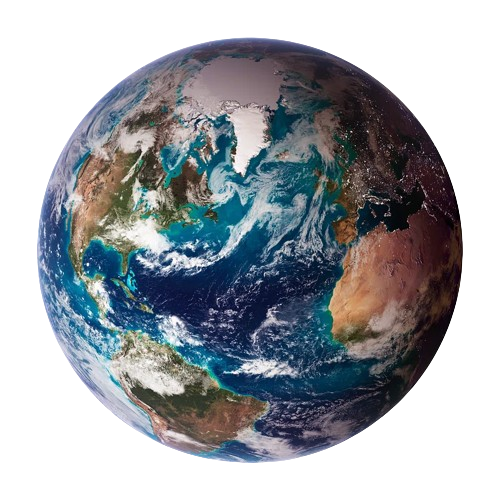
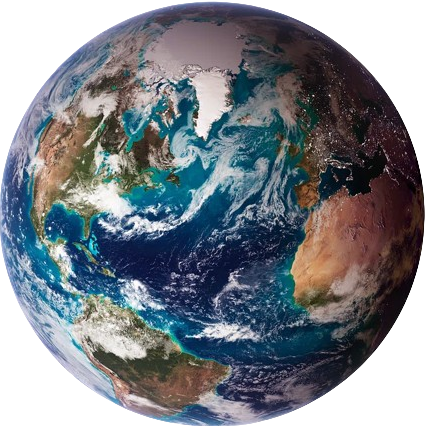
restructure

diff --git a/src/Components/Home.js b/src/Components/Home.js
@@ -4,18 +4,27 @@ import logo from './logo.png'
 
 function Home() {
   return (
-    <div className='section'>
-      <section>
-        <h1 className='title'>SSRP</h1>
-        <h3 className='title'>Somaiya Space Research Project</h3>
-      </section>
-        <img className='image' src={earth} alt='earth' />
-        <img className='logo' src={logo} alt='logo of team ssrp' />
-        <p className='Slogan'>From Dreams to Reality</p>
+    <div className='text-center text-white m-3'>
+      <div className='row justify-content-center'>
+        <h1 className='d-inline-block'>SSRP</h1>
+      </div>
+      <div className='row justify-content-center'>
+        <h3 className='d-inline-block'>Somaiya Space Research Project</h3>
+      </div>
+      <div className='row justify-content-end m-3'> 
+        <div className='col-6'>
+          <img className='image img-fluid' src={earth} alt='earth'/>
+          <img className='logo img-fluid positioin-absolute' style={{transform: 'translate(-50% , -50%)'}} src={logo} alt='logo of team ssrp' />
+        </div>
+      </div>
+      <div style={{ marginTop: '-20vh'}}>
+      <p className='Slogan'>From Dreams to Reality</p>
       <section id = 'about'>
         <h2>About Us</h2>
         <p>SSRP is a student-led initiative at K.J. Somaiya College of Engineering, Mumbai. We aim to foster a culture of space research and innovation among students. Our goal is to provide a platform for students to work on real-world space projects and gain hands-on experience in the field of space technology.</p>
       </section>
+        </div>
+       
     </div>
   )
 }
